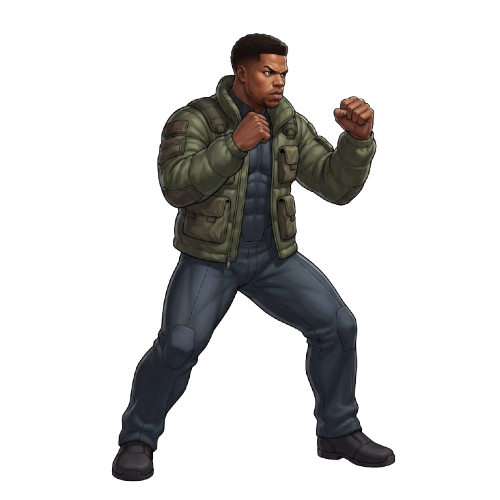
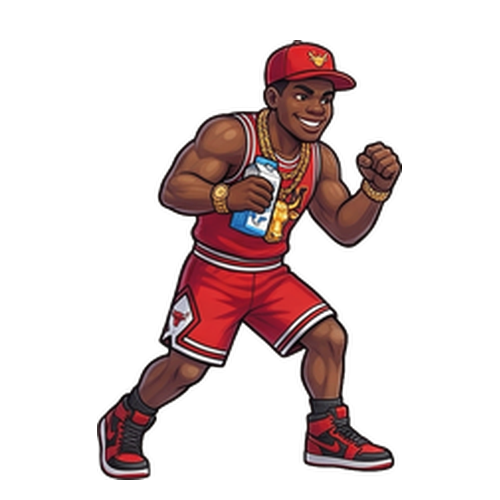
Add files via upload

Changed region(s): [[0.18, 0.06, 0.81, 0.96]]

diff --git a/index.html b/index.html
@@ -1,5 +1,5 @@
 <!DOCTYPE html>
-<html lang="es"><head><meta charset="utf-8"><title>Fénix Fight</title>
-<style>html,body{margin:0;height:100%;background:#000;display:flex;align-items:center;justify-content:center}
-canvas{width:min(100vw,177.7vh);background:#111}</style></head>
-<body><canvas id="c" width="960" height="540"></canvas><script src="anim.js"></script><script src="game.js"></script></body></html>
+<html lang="es"><head><meta charset="utf-8"><meta name="viewport" content="width=device-width,initial-scale=1"><title>Fénix Fight</title>
+<style>html,body{margin:0;height:100%;background:#000;display:flex;align-items:center;justify-content:center;overflow:hidden;cursor:default}
+canvas{width:min(100vw,177.7vh);background:#000;outline:none}</style></head>
+<body><canvas id="c" width="1920" height="1080" tabindex="0"></canvas><script src="anim.js"></script><script src="combat.js"></script><script src="assist.js"></script><script src="game.js"></script></body></html>
